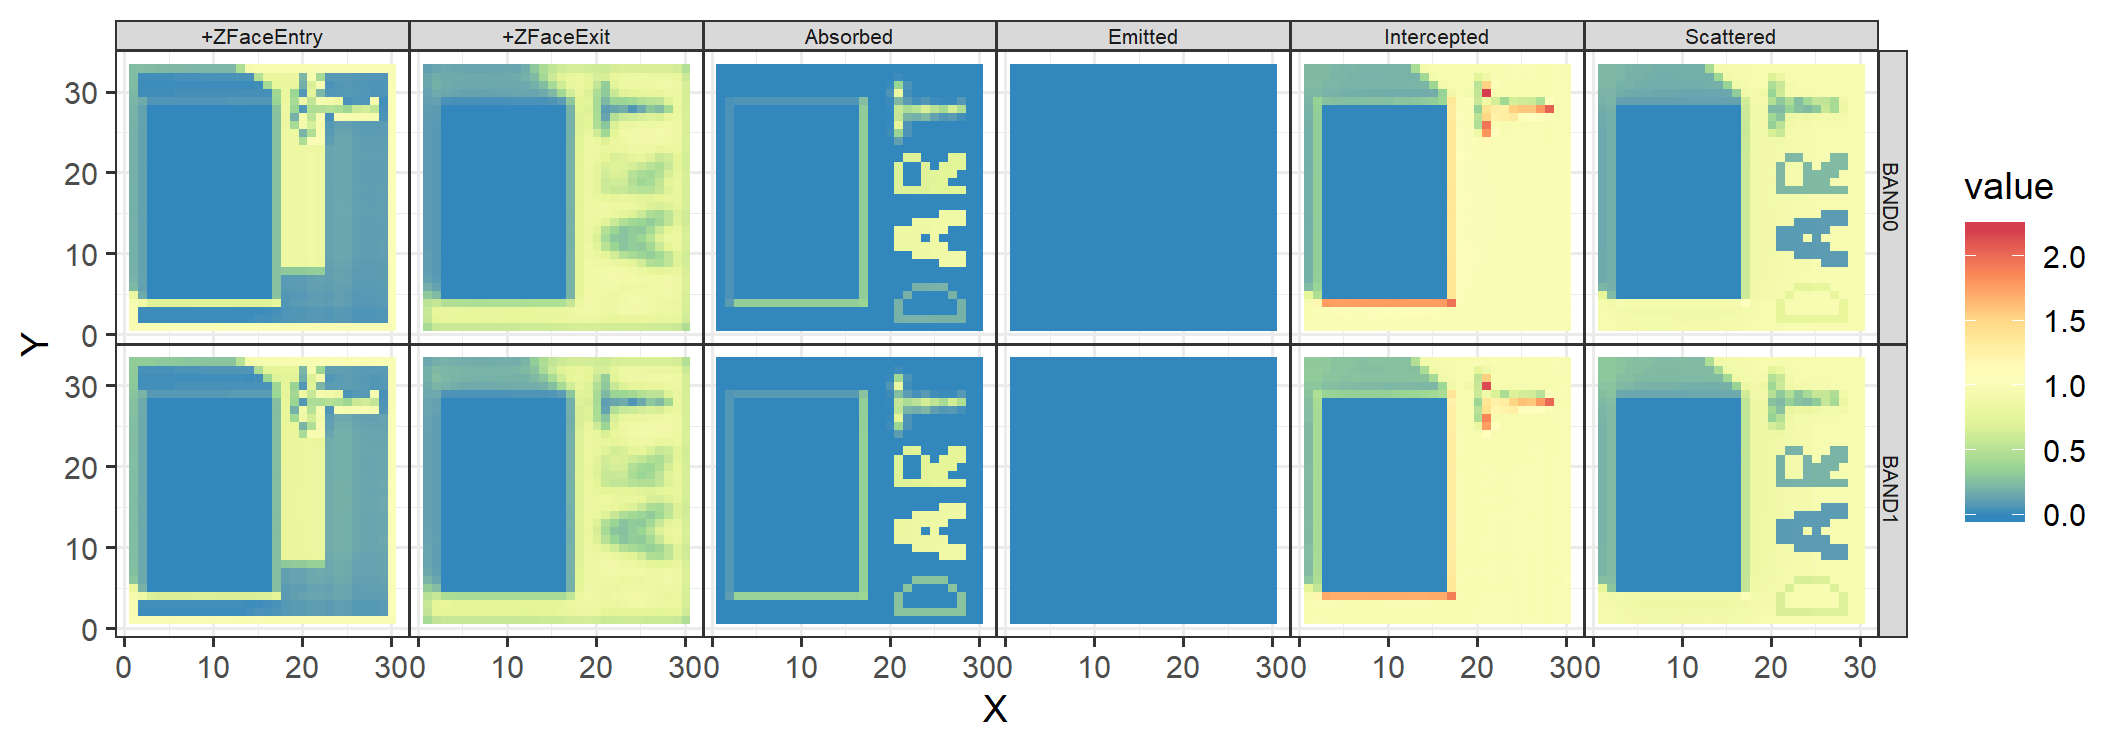
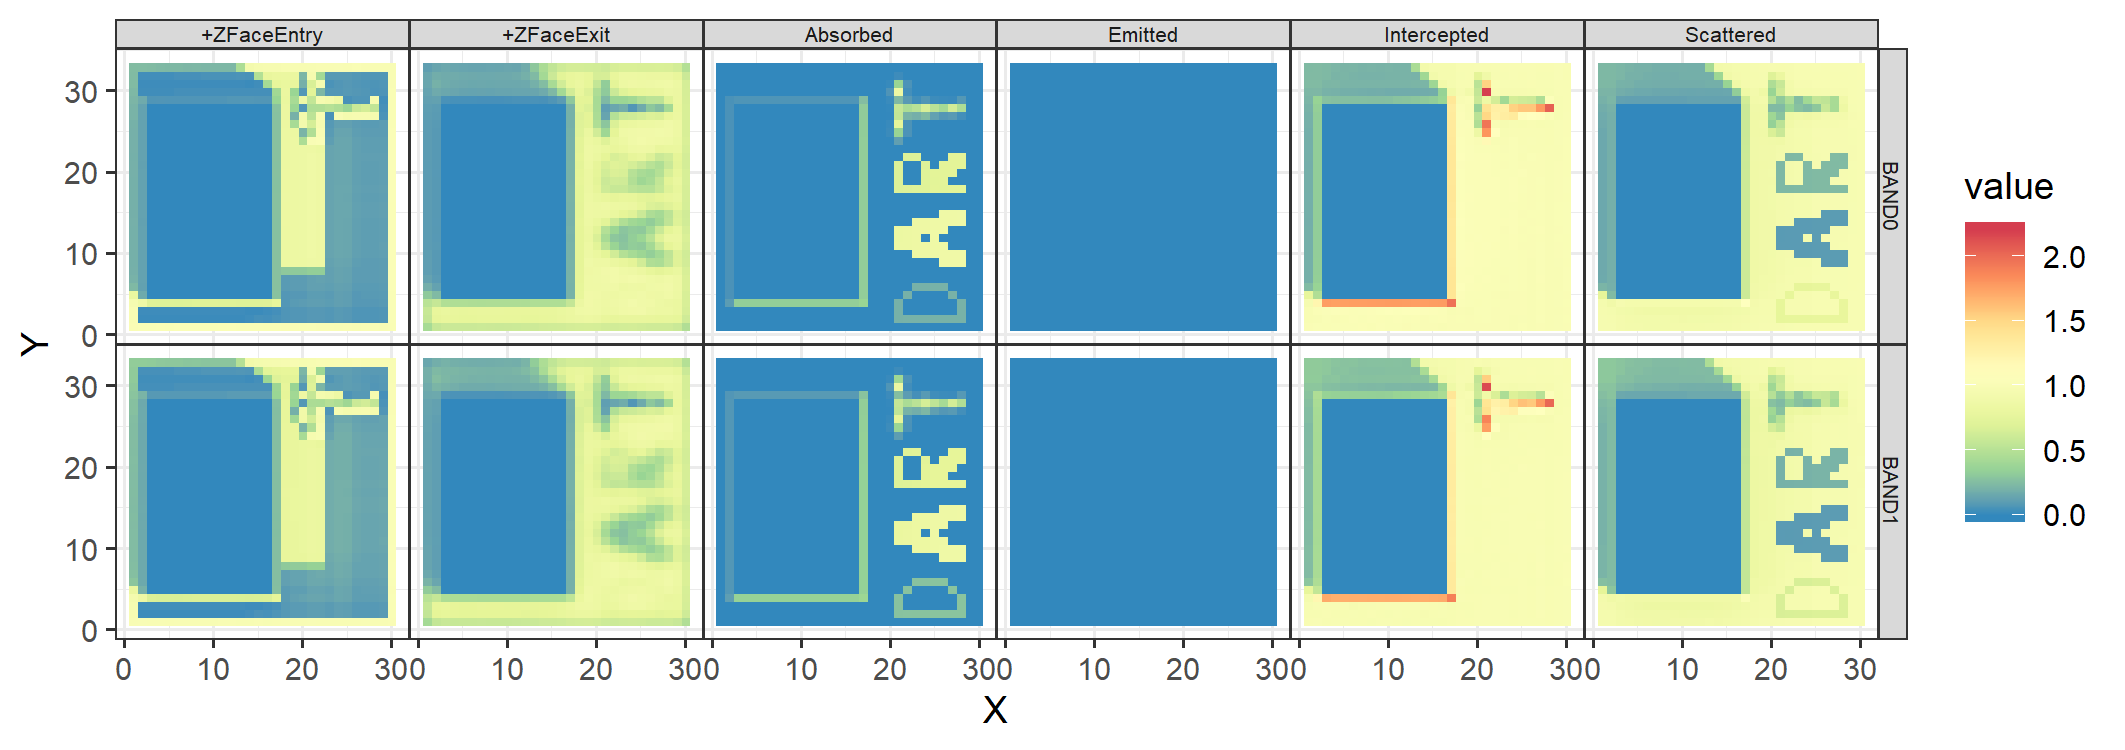
sequenceInfo in files df

diff --git a/README.md b/README.md
@@ -140,7 +140,6 @@ ggplot(simData_filtered) +
     theme(panel.spacing = unit(0, "cm"), 
           strip.text = element_text(size = 6, 
                                     margin = margin(0.05, 0.05, 0.05, 0.05, unit = "cm"))) +
-    theme(aspect.ratio = 1) +
     scale_fill_distiller(palette = "Spectral")
 ```
 
